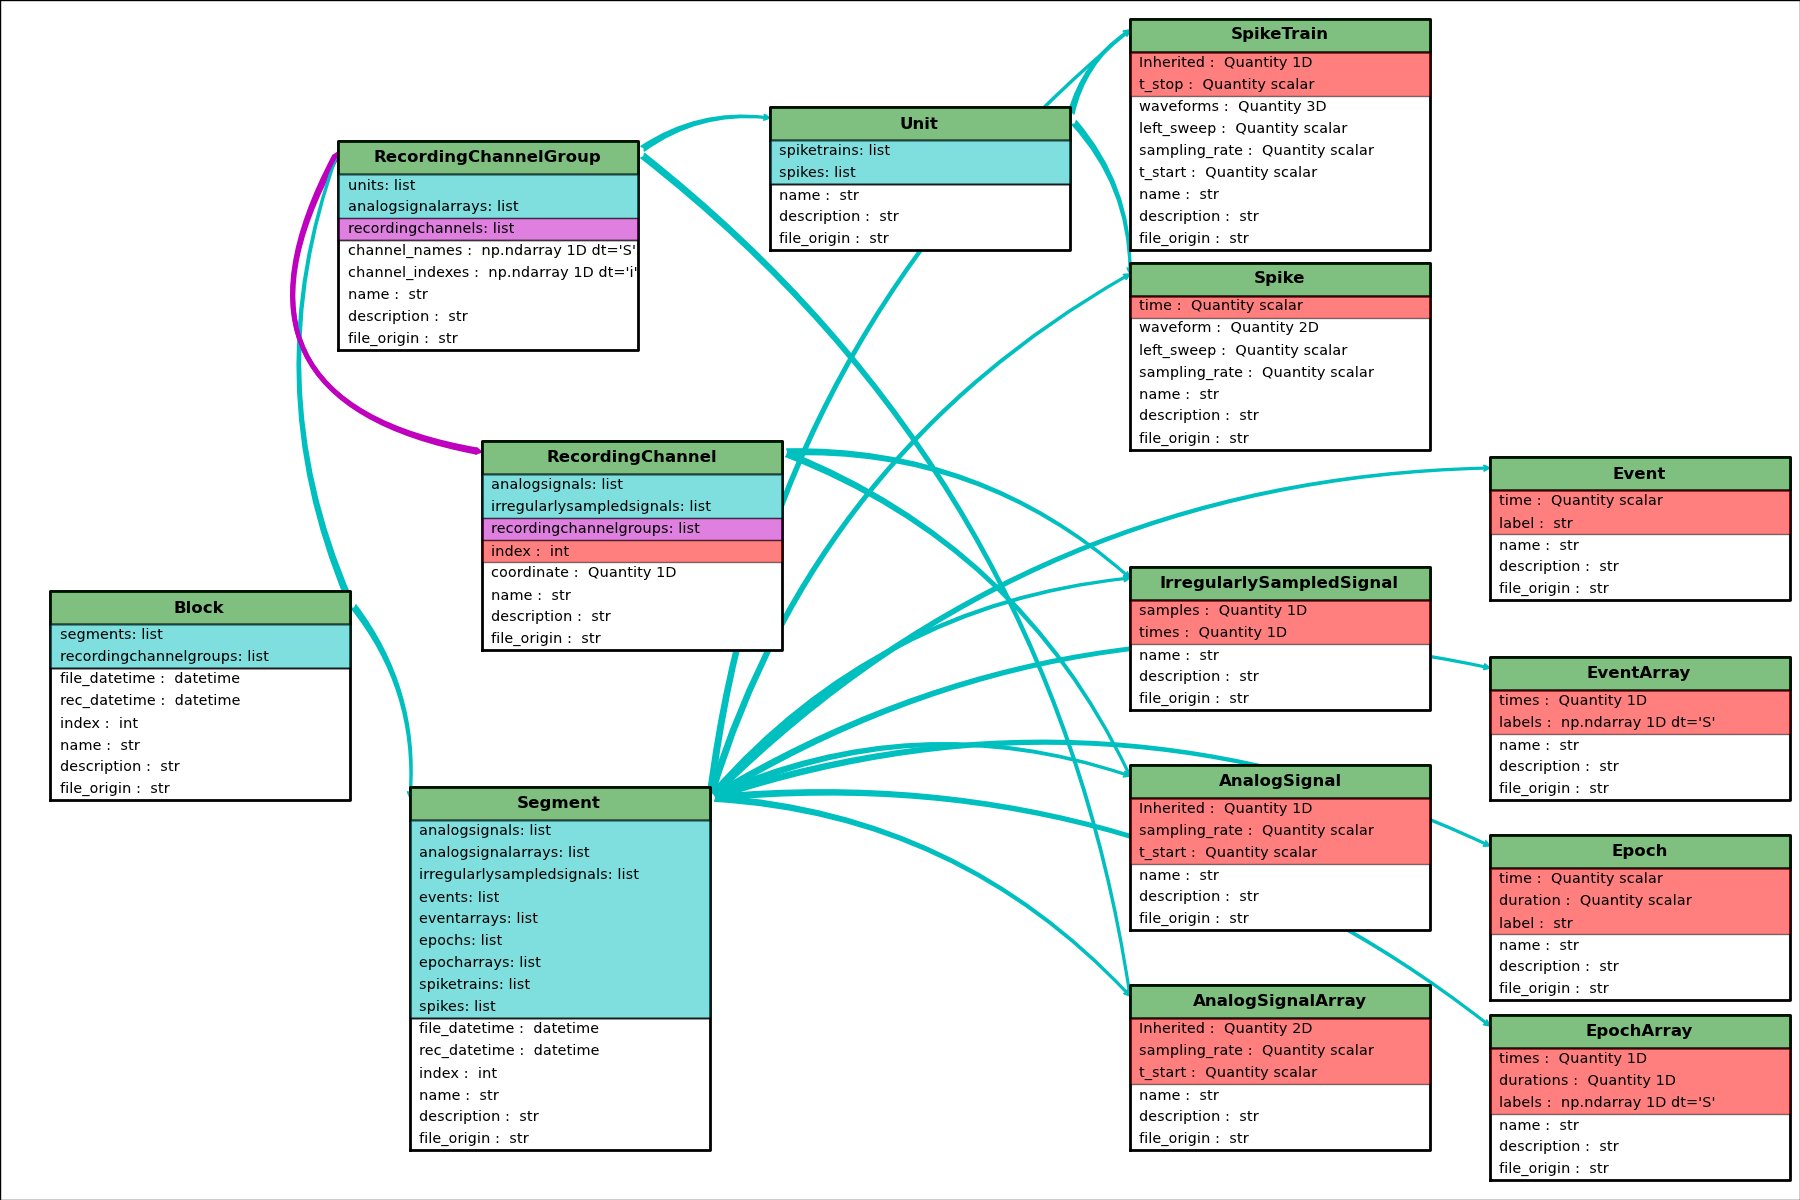
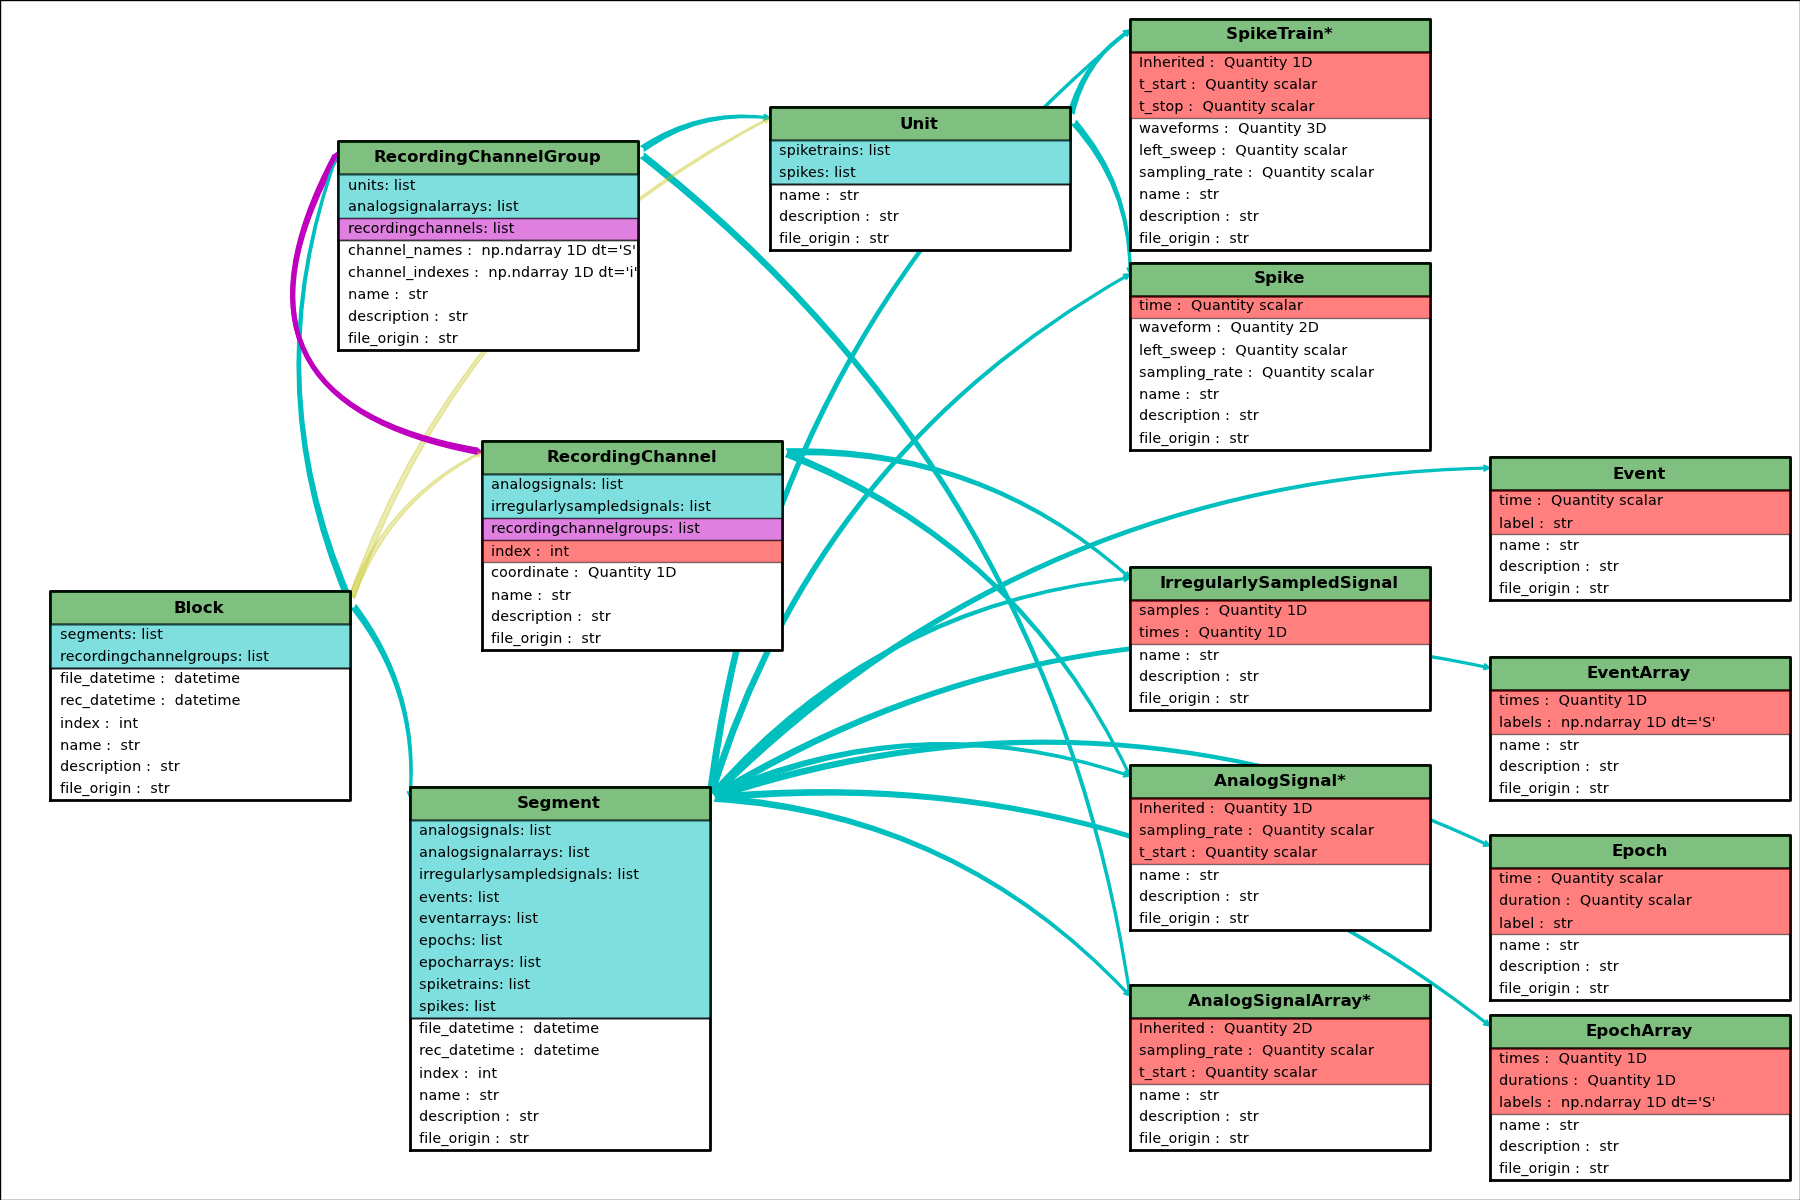
Working on doc.
git-svn-id: https://neuralensemble.org/svn/neo/branches/neo0.2@369 acbc63fc-6c75-0410-9d68-8fa99cba188a

diff --git a/doc/source/images/generate_diagram.py b/doc/source/images/generate_diagram.py
@@ -11,7 +11,7 @@ from matplotlib.patches import Rectangle , ArrowStyle, FancyArrowPatch
 from matplotlib.font_manager import FontProperties
 
 from neo.description import class_by_name, one_to_many_reslationship, many_to_many_reslationship, \
-        classes_necessary_attributes, classes_recommended_attributes
+        property_relationship, classes_necessary_attributes, classes_recommended_attributes
 
 import quantities as pq
 from datetime import datetime
@@ -43,18 +43,24 @@ def generate_diagram(filename, rect_pos,rect_width,  figsize ):
         #~ pos = rect_pos[name]
         #~ htotal = all_h[name]
         #~ if name not in one_to_many_reslationship.keys(): continue
-        for r in range(2):
+        for r in range(3):
             relationship = [ ]
             if r==0 and name in one_to_many_reslationship:
                 relationship = one_to_many_reslationship[name]
                 color = 'c'
+                alpha = 1.
             elif r==1 and name in many_to_many_reslationship:
                 relationship = many_to_many_reslationship[name]
                 color = 'm'
+                alpha = 1.
+            elif r ==2 and name in property_relationship:
+                relationship = property_relationship[name]
+                color = 'y'
+                alpha = .3
         
             for c,children in enumerate(relationship):
                 if children not in rect_pos.keys(): continue
-                if r ==0:
+                if r ==0 or r == 2:
                     x = rect_pos[children][0]
                     y = rect_pos[children][1] + all_h[children] - line_heigth*.5
                     x2 = rect_pos[name][0] + rect_width
@@ -84,6 +90,7 @@ def generate_diagram(filename, rect_pos,rect_width,  figsize ):
                                                             shrinkB=.3,
                                                             fc=color, ec=color,
                                                             connectionstyle=connectionstyle,
+                                                            alpha = alpha,
                                                             ),
                                             bbox=dict(boxstyle="square", fc="w"))
                 a.set_zorder(-4)
@@ -149,7 +156,11 @@ def generate_diagram(filename, rect_pos,rect_width,  figsize ):
 
         
         # name
-        ax.text( pos[0]+rect_width/2. , pos[1]+htotal - line_heigth*1.5/2. , name,
+        if len(classes_necessary_attributes[name]) >0 and classes_necessary_attributes[name][0][0] == '':
+            post= '* '
+        else:
+            post = ''
+        ax.text( pos[0]+rect_width/2. , pos[1]+htotal - line_heigth*1.5/2. , name+post,
                             horizontalalignment = 'center',
                             verticalalignment = 'center',
                             fontsize = fontsize+2,

diff --git a/neo/description.py b/neo/description.py
@@ -57,7 +57,6 @@ one_to_many_reslationship = {
                          'Event', 'EventArray', 'Epoch', 'EpochArray',
                         'SpikeTrain', 'Spike', ],
     'RecordingChannel' : [ 'AnalogSignal',  'IrregularlySampledSignal', ],
-    #~ 'RecordingChannelGroup' : [ 'RecordingChannel',  'AnalogSignalArray'],
     'RecordingChannelGroup' : [  'Unit', 'AnalogSignalArray'],
     'Unit' : ['SpikeTrain', 'Spike', ]
     }
@@ -73,8 +72,6 @@ for p,children in one_to_many_reslationship.items():
 many_to_many_reslationship = {
     'RecordingChannel' : ['RecordingChannelGroup', ],
     'RecordingChannelGroup' : ['RecordingChannel', ],
-    #~ 'RecordingChannel' : ['Unit', ],
-    #~ 'Unit' : ['RecordingChannel', ],
     }
 # check bijectivity
 for p,children in many_to_many_reslationship.items():
@@ -83,6 +80,13 @@ for p,children in many_to_many_reslationship.items():
             many_to_many_reslationship[c] = [ ]
         if p not in many_to_many_reslationship[c]:
             many_to_many_reslationship[c].append(p)
+
+
+# Some relationship shortcuts are accesible througth properties
+property_relationship = {
+    'Block' : ['Unit', 'RecordingChannel'],
+    
+    }
 
 
 
@@ -114,6 +118,7 @@ classes_necessary_attributes = {
     'Unit': [ ],
     
     'SpikeTrain': [('', pq.Quantity, 1 ),
+                    ('t_start', pq.Quantity, 0 ),
                    ('t_stop', pq.Quantity, 0)
                             ],
     'Spike': [('time', pq.Quantity, 0),
@@ -154,7 +159,6 @@ classes_recommended_attributes= {
     'SpikeTrain': [('waveforms', pq.Quantity, 3),
                             ('left_sweep', pq.Quantity, 0 ),
                             ('sampling_rate', pq.Quantity, 0 ),
-                            ('t_start', pq.Quantity, 0 ),                    
                             ],
     'Spike': [('waveform', pq.Quantity, 2),
                     ('left_sweep', pq.Quantity, 0 ),

diff --git a/neo/io/neomatlabio.py b/neo/io/neomatlabio.py
@@ -51,8 +51,8 @@ class NeoMatlabIO(BaseIO):
       * neo classes are converted to matlab struct.
         Ex: Block in neo will be a struct with name, file_datetime, ...
       * neo one_to_many relationship are cellarray in matlab.
-        Ex: seg._analogsignals[2] in neo will be seg.analogsignals{3} in matlab.
-        Note the one based in matlab and the missing underscore.
+        Ex: seg.analogsignals[2] in neo will be seg.analogsignals{3} in matlab.
+        Note the one based in matlab and braket vs singleton.
       * Quantity attributes in neo in will be 2 fields in mallab?
          Ex: anasig.t_start = 1.5 * s  (pq.Quantiy) in neo
          will be anasig.t_start = 1.5 and anasig.t_start_unit = 's' in matlab
@@ -119,10 +119,10 @@ class NeoMatlabIO(BaseIO):
             bl = neo.Block(name = 'my block with neo')
             for s in range(3):
                 seg = neo.Segment( name = 'segment'+str(s))
-                bl._segments.append(seg)
+                bl.segments.append(seg)
                 for a in range(5):
                     anasig = neo.AnalogSignal( rand(100), units = 'mV', t_start = 0 * pq.s, sampling_rate = 100*pq.Hz)
-                    seg._analogsignals.append(anasig)
+                    seg.analogsignals.append(anasig)
                 for t in range(7):
                     sptr = neo.SpikeTrain( rand(30), units = 'ms', t_start = 0*pq.ms, t_stop = 10*pq.ms)
                     seg.spiketrains.append(sptr)

diff --git a/neo/core/block.py b/neo/core/block.py
@@ -32,6 +32,11 @@ class Block(BaseNeo):
             :py:class:`Unit` existing in the block. This shortcut exists
             because a common analysis case is analyzing all neurons that
             you recorded in a session.
+        
+        list_recordingchannels: descends through hierarchy and returns
+            a list of :py:class:`RecordingChannel` existing in the block.
+        
+        
     """
     def __init__(self, name=None, description=None, file_origin=None,
                  file_datetime=None, rec_datetime=None, index=None, 
@@ -50,7 +55,7 @@ class Block(BaseNeo):
     @property
     def list_units(self):
         """
-        Return a list of all Units in a block.
+        Return a list of all :py:class:`Unit` in a block.
         """
         units = [ ]
         for rcg in self.recordingchannelgroups:
@@ -59,5 +64,16 @@ class Block(BaseNeo):
                     if unit not in units:
                         units.append(unit)
         return units
-
+    
+    @property
+    def list_recordingchannels(self):
+        """
+        Return a list of all :py:class:`RecordingChannel` in a block.
+        """
+        all_rc = [ ]
+        for rcg in self.recordingchannelgroups:
+            for rc in rcg.recordingchannel:
+                if rc not in all_rc:
+                    all_rc.append(rc)
+        return all_rc
 

diff --git a/neo/io/tools.py b/neo/io/tools.py
@@ -63,7 +63,7 @@ def populate_RecordingChannel(bl, remove_from_annotation = True):
     Block>Segment>AnalogSIgnal or/and Block>Segment>SpikeTrain
     this function auto create all RecordingChannel
     following these rules:
-      * when 'channel_index ' is in _AnalogSIgnal.annotations the corresponding RecordingChannel is created.
+      * when 'channel_index ' is in AnalogSIgnal.annotations the corresponding RecordingChannel is created.
       * 'channel_index ' is then removed from annotations dict if remove_from_annotation
       * only one RecordingChannelGroup is created
     
@@ -96,6 +96,11 @@ def populate_RecordingChannel(bl, remove_from_annotation = True):
         channel_indexes = indexes, channel_names=names)
     bl.recordingchannelgroups.append(rcg)
     for ind in indexes:
+        # many to many relationship
         rcg.recordingchannels.append(recordingchannels[ind])
+        recordingchannels[ind].recordingchannelgroups.append(rcg)
+
+
+
 
 

diff --git a/neo/core/recordingchannel.py b/neo/core/recordingchannel.py
@@ -7,9 +7,8 @@ class RecordingChannel(BaseNeo):
     
     Note that a RecordingChannel can belong to several :py:class:`RecordingChannelGroup`.
 
-    *Usage*::
+    *Usage* one Block with 3 Segment and 16 RecordingChannel and 48 AnalogSignal::
         
-        # one Block with 3 Segment and 16 RecordingChannel and 48 AnalogSignal
         bl = Block()
         # Create a new RecordingChannelGroup and add to current block
         rcg = RecordingChannelGroup(name = 'all channels)
@@ -29,6 +28,7 @@ class RecordingChannel(BaseNeo):
                 anasig = AnalogSignal( np.rand(100000), sampling_rate = 20*pq.Hz)
                 bl.segments[s].analogsignals.append(anasig)
                 rcg.recordingchannels[c].analogsignals.append(anasig)
+        
         
     *Required attributes/properties*:
         :index: (int) Index of the channel

diff --git a/neo/core/recordingchannelgroup.py b/neo/core/recordingchannelgroup.py
@@ -13,6 +13,7 @@ class RecordingChannelGroup(BaseNeo):
         electrodes (4 in tetrode case).
         
     *Usage 1* multi segment recording with 2 electrode array::
+    
         bl = Block()
         # create a block with 3 Segment and 2 RecordingChannelGroup
         for s in range(3):
@@ -45,6 +46,7 @@ class RecordingChannelGroup(BaseNeo):
             rc.recordingchannelgroups.append(rcg) # <- many to many relationship
     
     *Usage 3* dealing with Units::
+    
         bl = Block()
         rcg = RecordingChannelGroup( name = 'octotrode A')
         bl.recordingchannelgroups.append(rcg)

diff --git a/doc/source/core.rst b/doc/source/core.rst
@@ -94,7 +94,7 @@ A :class:`Segment` can access the :class:`AnalogSignal` objects that it contains
     >>> seg.analogsignals
     # gives a list a AnalogSignals
     
-In the diagram below, these *one to many* relationships are represented by cyan arrows.
+In the :ref:`neo_diagram` below, these *one to many* relationships are represented by cyan arrows.
 In general, an object can access its children with an attribute *childname+s* in lower case, e.g.
 
     * :attr:`Block.segments`
@@ -126,7 +126,7 @@ Here is an example showing these relationships in use::
         print(seg.block) # parent access
 
 
-On the diagram you can also see a magenta relationship. This is more tricky *many to many* relationship.
+On the :ref:`neo_diagram` you can also see a magenta relationship. This is more tricky *many to many* relationship.
 This relationship is between :py:class:`RecordingChannel` and :py:class:`RecordingChannelGroup`.
 *Many to many* relationship means that :py:class:`RecordingChannelGroup` have a list *recordingchannels** 
 that point to many :py:class:`RecordingChannel`, this is the intuitive and general case. But there also a
@@ -166,6 +166,19 @@ I want 5 groups: one for describing the whole probe and four for each tetrodes::
 See :ref:`use_cases_page` for more examples of how the different objects may be used.
 
 .. _neo_diagram:
+
+Neo diagram
+========
+
+Object:
+  * With a star = hinerits Quantities
+Attributes:
+  * In red = necessary
+  * In withe = recommended
+Relationship:
+  * In cyan = one to many
+  * In magenta = many to many
+  * In yellow = properties (deducted from other relationship)
 
 
 .. image:: images/simple_generated_diagram.png
